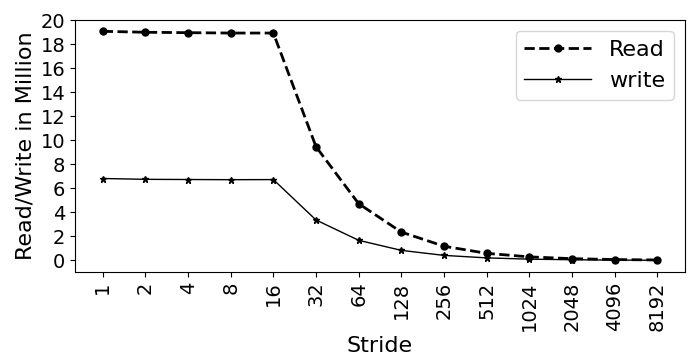
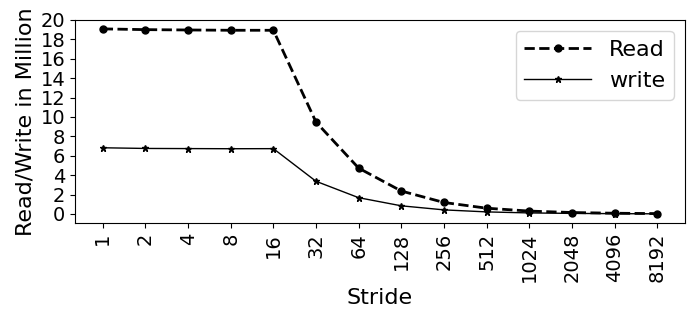
added new grpahs

diff --git a/vecmul_cpu/graph/stream_plot.py b/vecmul_cpu/graph/stream_plot.py
@@ -12,7 +12,7 @@ fig, ax = plt.subplots()
 
 fig.set_size_inches(5, 1.5)
 
-labels = ['PAPI Preset', 'Manual']
+labels = ['PAPI Preset', 'Prediction']
 traffic = [12.46, 18.75]
 
 y_pos = np.arange(len(labels))  # the label locations
@@ -20,7 +20,7 @@ y_pos = np.arange(len(labels))  # the label locations
 ax.barh(y_pos, traffic,hatch='....', color='white', edgecolor='black')
 #rects1 = plt.bar(x, traffic, .8, hatch='....', color='white', edgecolor='black')
 
-ax.set_xlabel('Cacheline transferred between LLC-DRAM', fontsize=12)
+ax.set_xlabel('Cache line transferred (in Million)', fontsize=12)
 #plt.title('', fontsize=18)
 ax.set_yticks(y_pos)
 ax.set_yticklabels(labels, fontsize=12)

diff --git a/vecmul_cpu/graph/stride_motivation.py b/vecmul_cpu/graph/stride_motivation.py
@@ -9,7 +9,7 @@ import matplotlib.patches as mpatches
 #plt.rcdefaults()
 fig, ax = plt.subplots()
 
-fig.set_size_inches(7, 4)
+fig.set_size_inches(7, 3.2)
 
 #labels = ['Manaul', 'PAPI']
 #traffic = [12.46, 18.75]
@@ -36,7 +36,7 @@ plt.legend(handlelength=3, fontsize=16)
 #plt.legend(loc="upper right", fontsize=12)
 
 
-ax.set_ylabel('Read/Write in Million', fontsize=16)
+ax.set_ylabel('Read/Write traffic', fontsize=16)
 ax.set_xlabel('Stride', fontsize=16)
 
 

diff --git a/vecmul_cpu/graph/pref_stride_method_initialization.py b/vecmul_cpu/graph/pref_stride_method_initialization.py
@@ -9,7 +9,7 @@ import matplotlib.patches as mpatches
 #plt.rcdefaults()
 fig, ax = plt.subplots()
 
-fig.set_size_inches(7, 4.5)
+fig.set_size_inches(7, 3.5)
 
 #labels = ['Manaul', 'PAPI']
 #traffic = [12.46, 18.75]

diff --git a/vecmul_cpu/graph/stride_method_initialization.py b/vecmul_cpu/graph/stride_method_initialization.py
@@ -9,7 +9,7 @@ import matplotlib.patches as mpatches
 #plt.rcdefaults()
 fig, ax = plt.subplots()
 
-fig.set_size_inches(7, 4)
+fig.set_size_inches(7, 3.5)
 
 #labels = ['Manaul', 'PAPI']
 #traffic = [12.46, 18.75]
